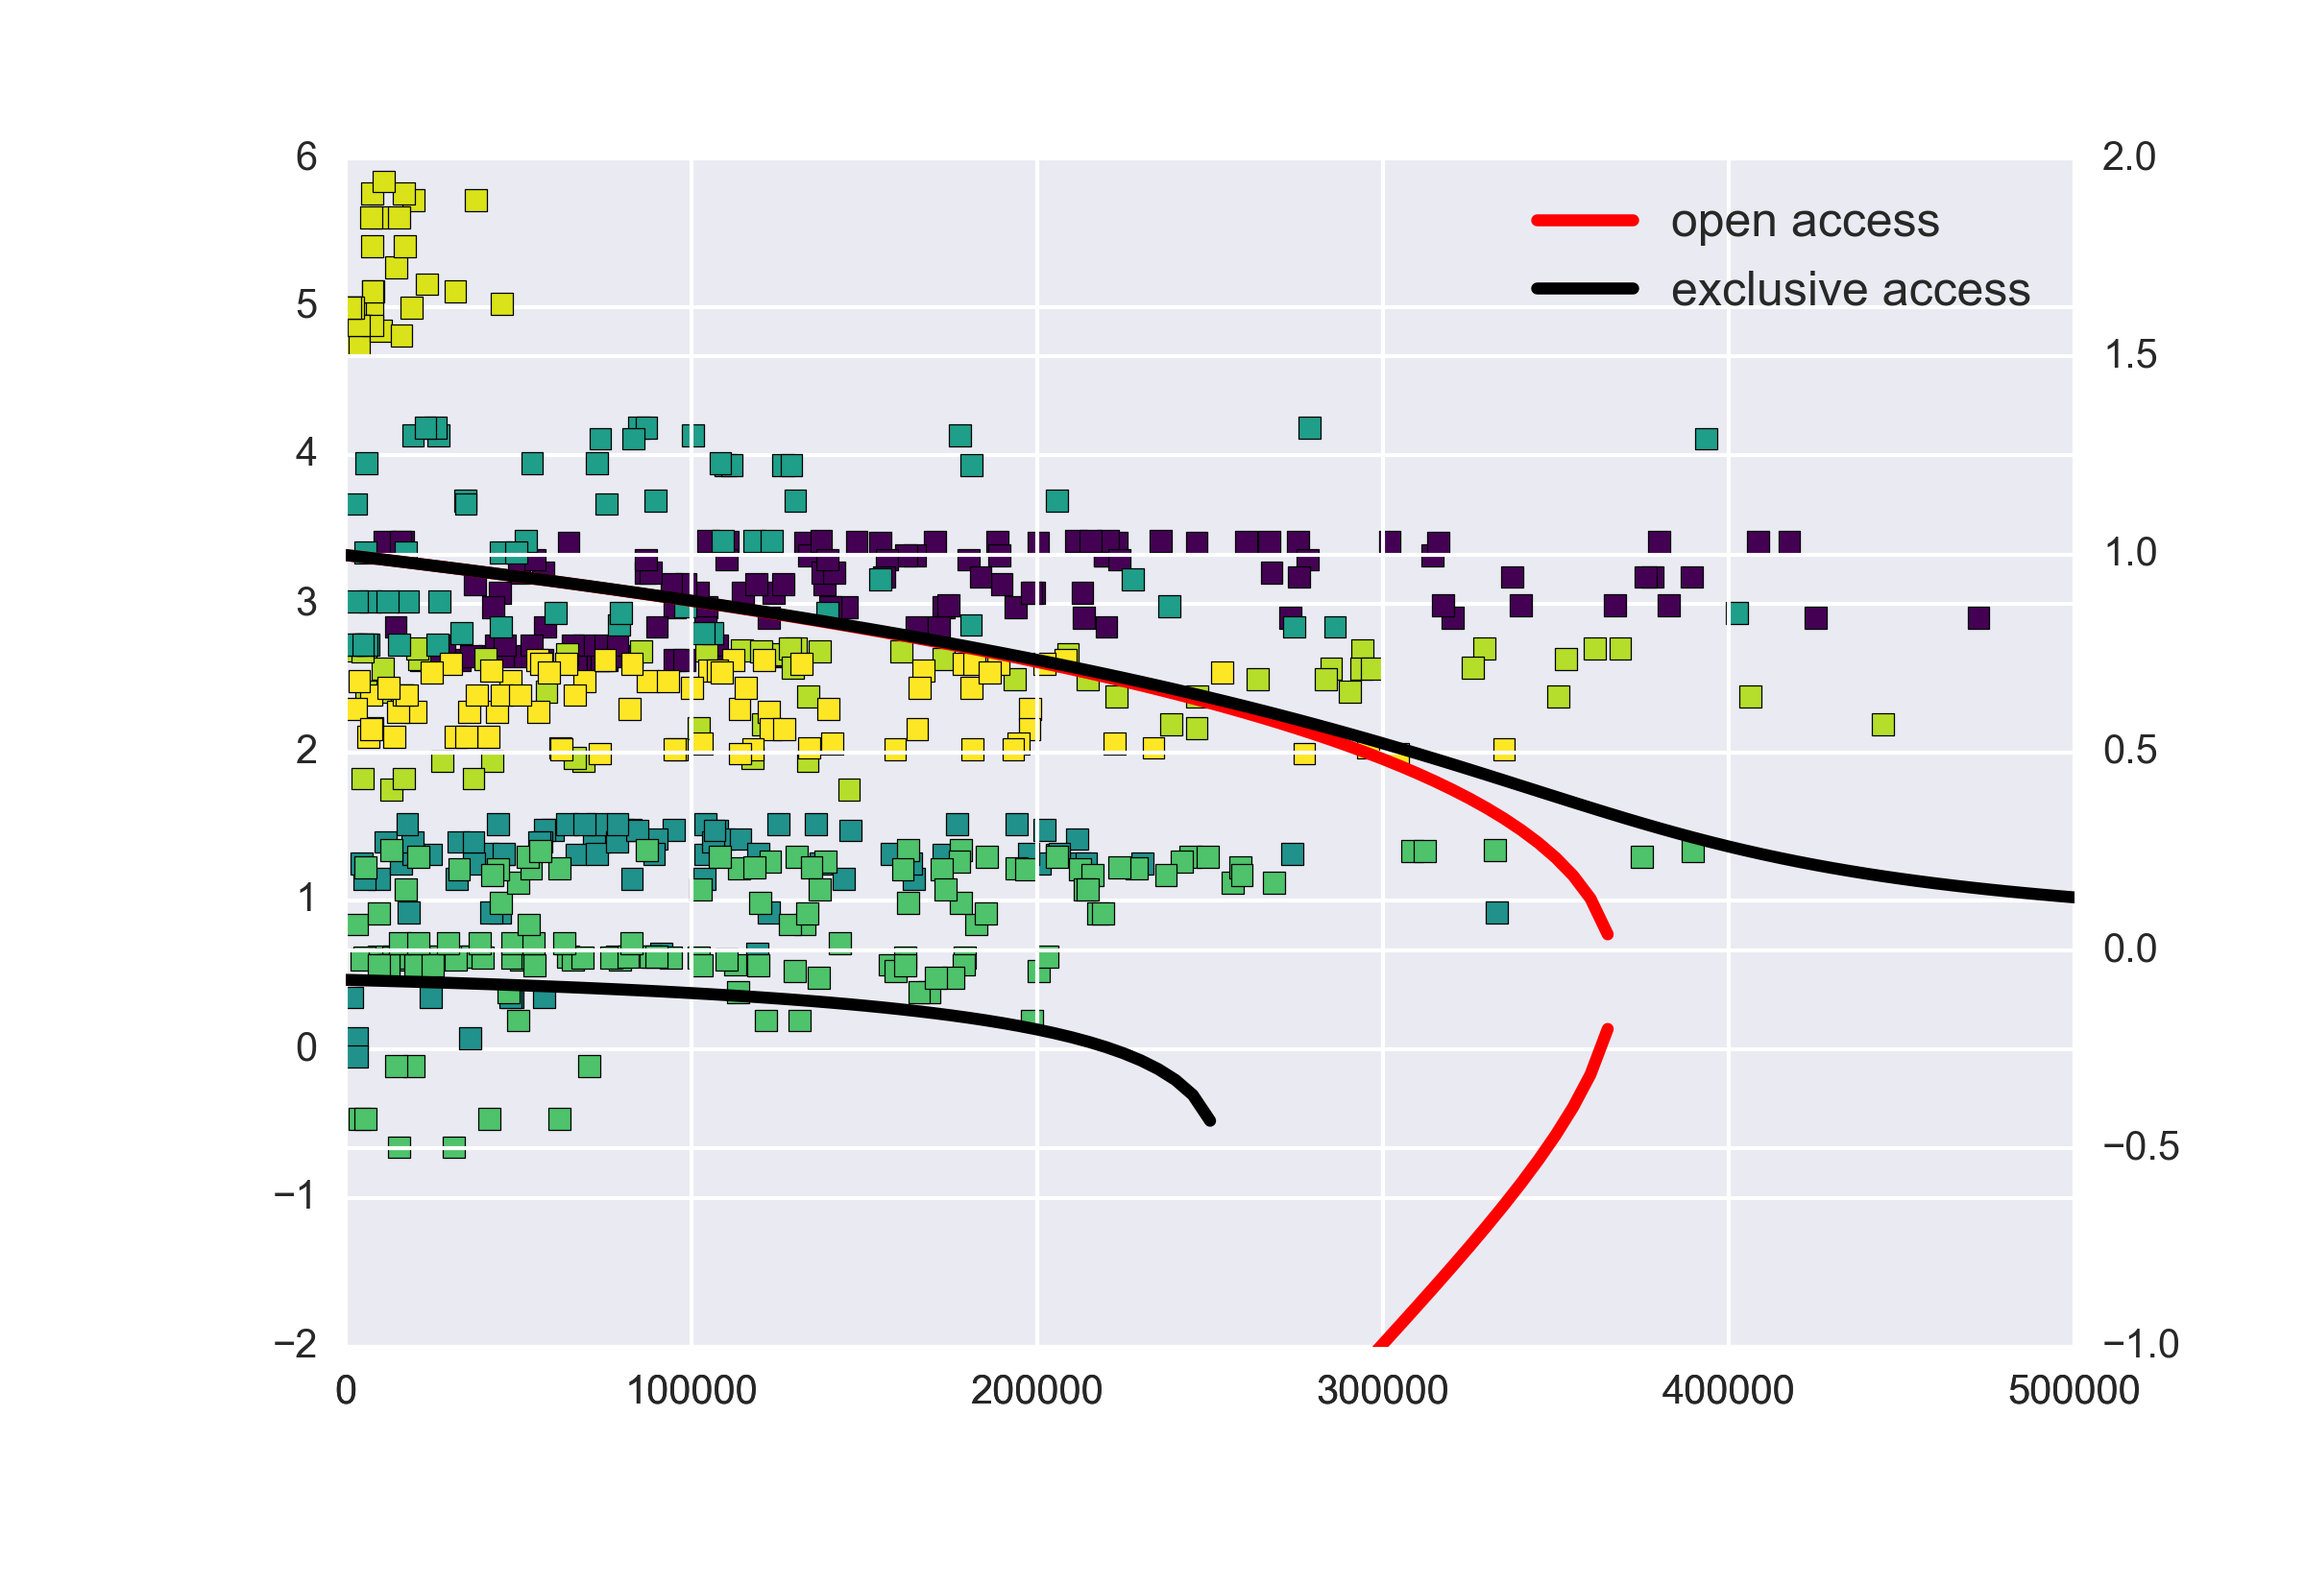
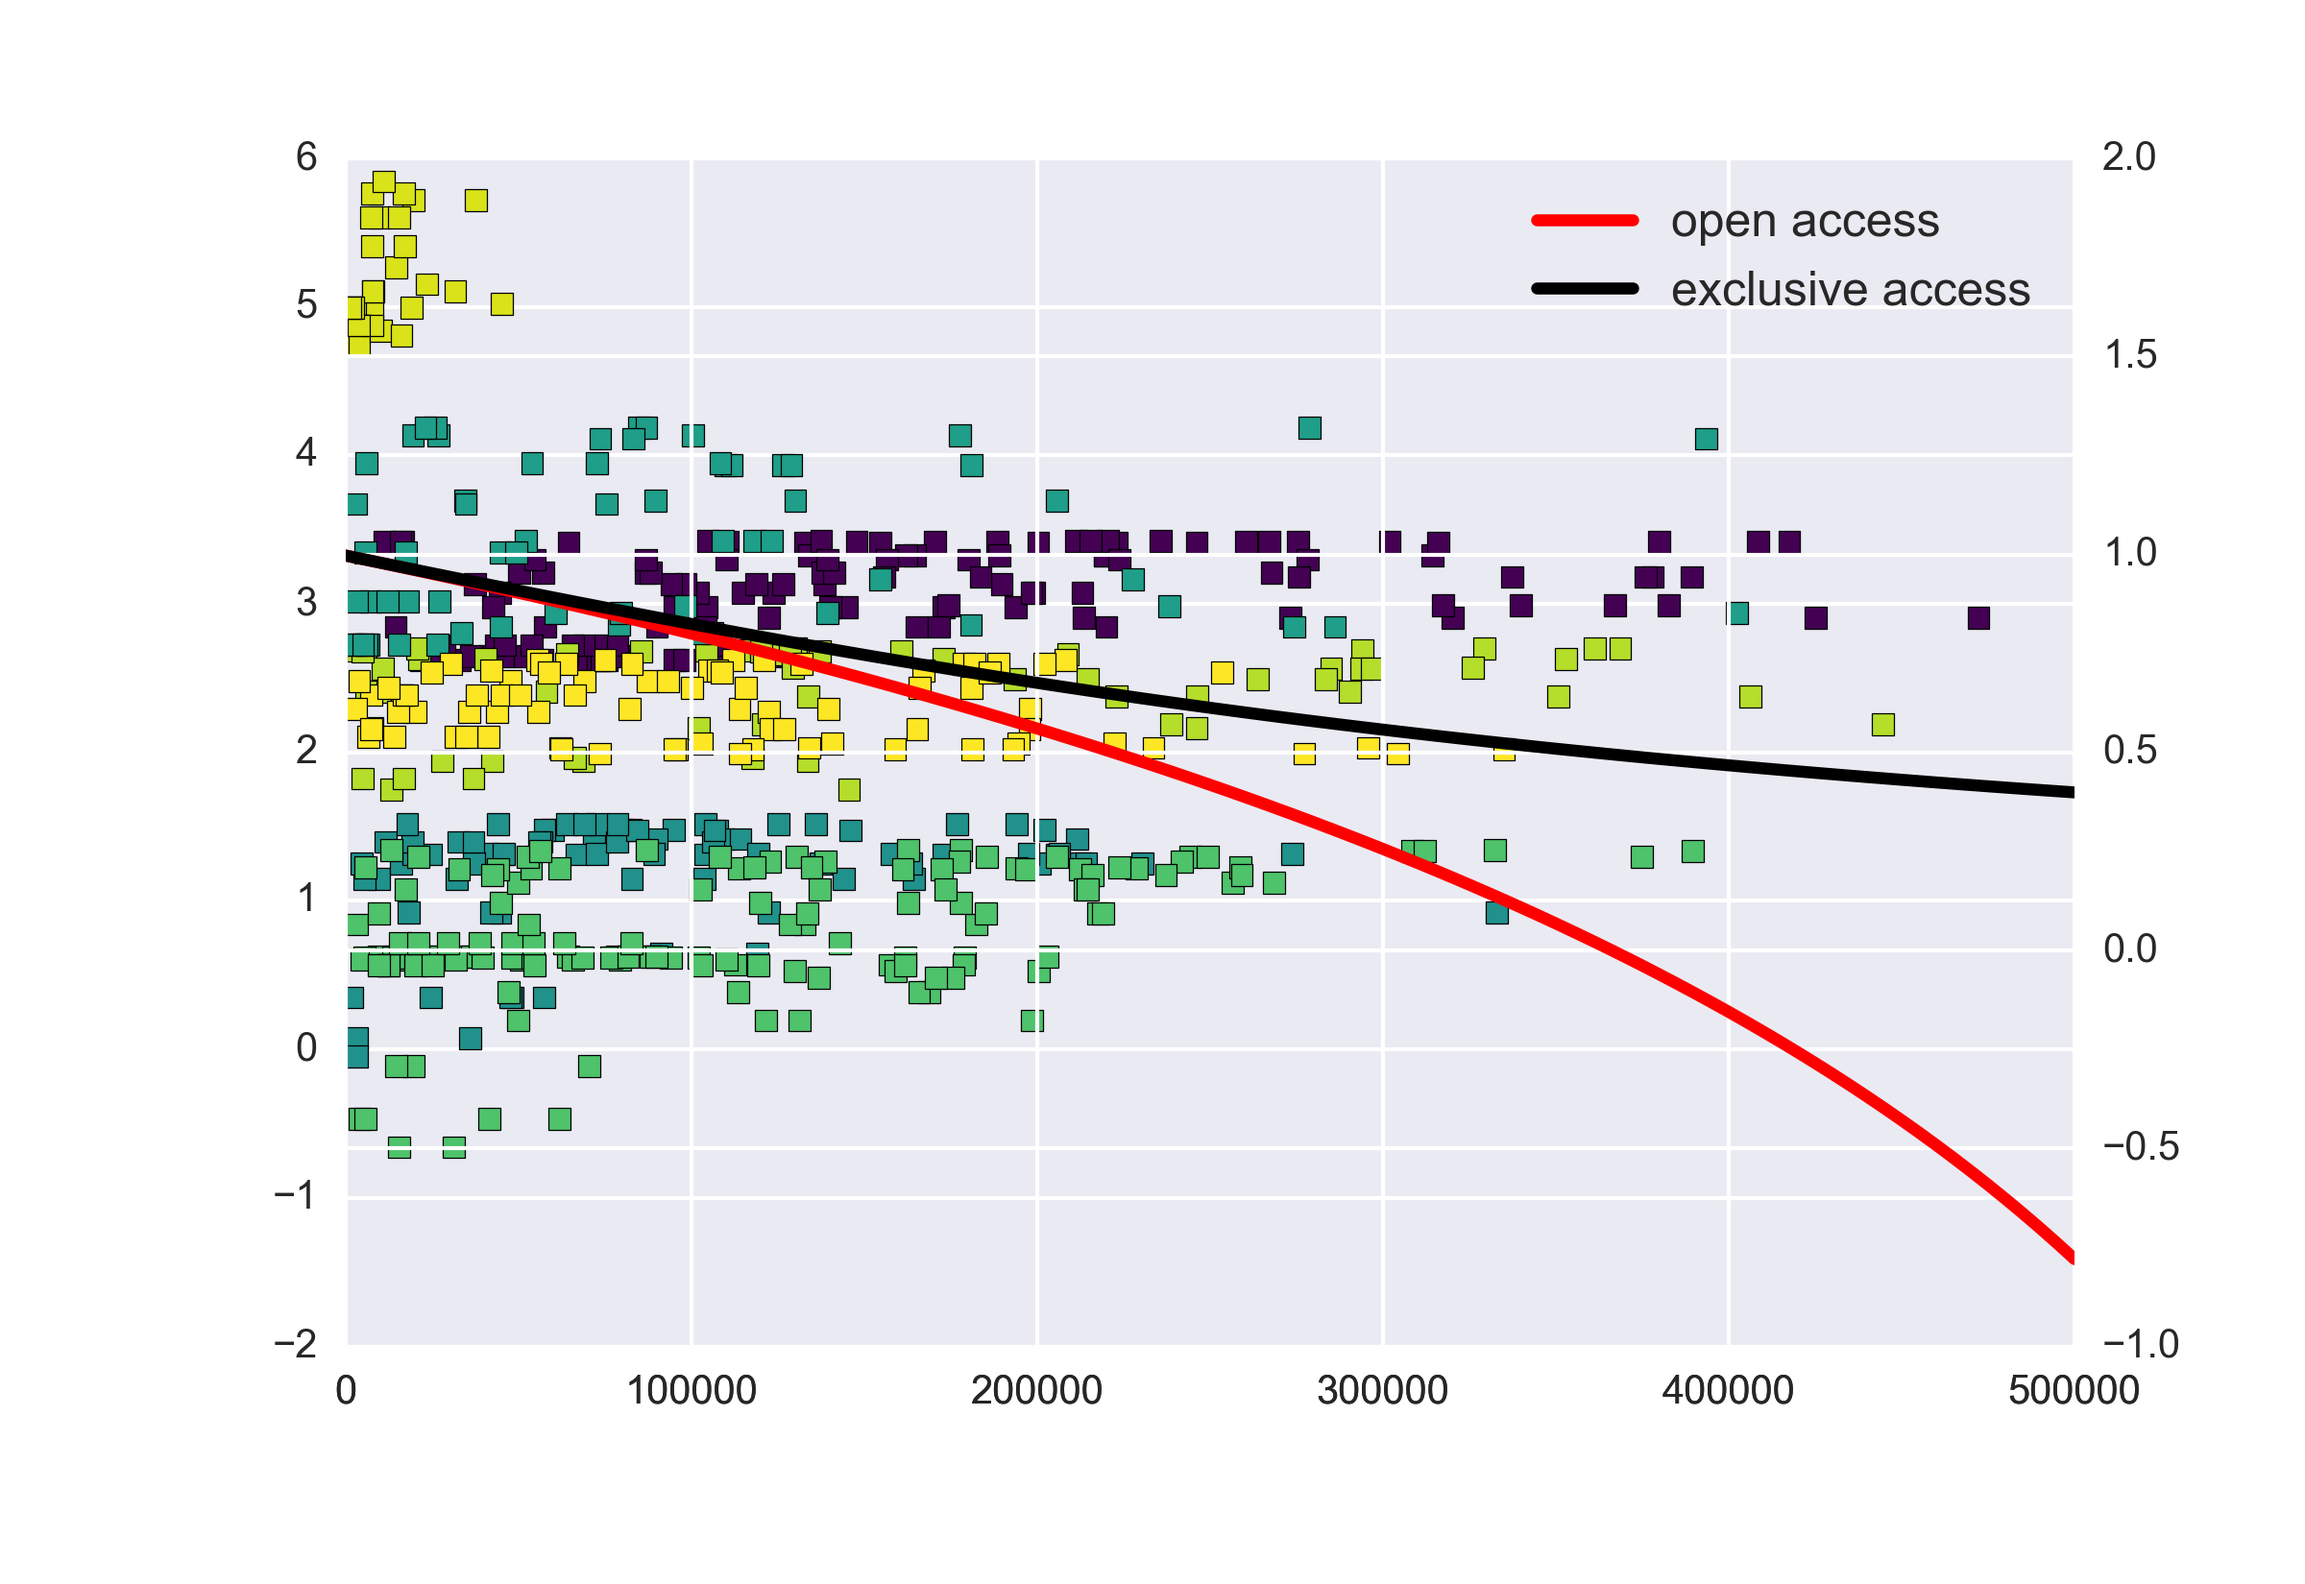
update on figures rq3
Former-commit-id: 96e5e547cd9221e72a9e4efcf4909f146054b247

diff --git a/RQ3/code/figures_theo.py b/RQ3/code/figures_theo.py
@@ -33,10 +33,10 @@ df3 = pd.read_csv('/Users/lauraelsler/Documents/MATLAB/solutions_exclusive_rq3.c
 # transpose and transform to numpy arrays
 df2= df2.transpose()
 df2=df2.values
-df2=np.nan_to_num(df2)
+# df2=np.nan_to_num(df2)
 df3= df3.transpose()
 df3=df3.values
-df3=np.nan_to_num(df3)
+# df3=np.nan_to_num(df3)
 
 # set working directory
 os.chdir("/Users/lauraelsler/Documents/SESYNC/GIT/fishmar/RQ3/")
@@ -48,8 +48,8 @@ plt.ylabel("catch $t$",fontsize=20, **hfont)
 ###! Scatter plot only data
 fig = plt.figure()
 ax1 = fig.add_subplot(111)
-plt.scatter(m_abalone, np.log2(stock_abalone/bmsy_abalone),c=(funct), s=30, marker="s", cmap='viridis')
-plt.title("abalone", fontsize= 25, **hfont)
+plt.scatter(m_lobsters, np.log2(stock_lobsters/bmsy_lobsters),c=(funct), s=30, marker="s", cmap='viridis')
+plt.title("lobsters", fontsize= 25, **hfont)
 plt.xlabel("reference price",fontsize=20, **hfont)
 plt.ylabel("log2(b/bmsy)",fontsize=20, **hfont)
 plt.ylim(0,6)
@@ -61,40 +61,45 @@ cb.ax.tick_params(labelsize=12)
 plt.show()
 
 ###! Scatter plot data and model
-x = np.linspace(0, 400000, 101) # x axis
+x = np.linspace(0, 5E5, 101) # x axis
 
 fig = plt.figure()
 fig.subplots_adjust(bottom=0.15, left= 0.15)
 # add the first axes using subplot populated with predictions
 ax1 = fig.add_subplot(111)
-plt.scatter(m_abalone, np.log2(stock_abalone),c=(funct), s=30, marker="s", cmap='viridis')
+plt.scatter(m_lobsters, np.log2(stock_lobsters/bmsy_lobsters),c=(funct), s=30, marker="s", cmap='viridis')
 # add the second axes using subplot with
 ax2 = fig.add_subplot(111, sharex=ax1, frameon=False)
-line1, = ax2.plot(df2[:,0], color="silver")
-line2, = ax2.plot(df2[:,1], color="black")
-line3, = ax2.plot(df3[:,0], color="green")
-line4, = ax2.plot(df3[:,1], color="orange")
+line1, = ax2.plot(x,df2[:,0], color="red", linewidth=3)
+line2, = ax2.plot(x,df2[:,1], color="red",linewidth=3)
+line3, = ax2.plot(x,df3[:,0], color="black",linewidth=3)
+line4, = ax2.plot(x,df3[:,1], color="black",linewidth=3)
 # x-axis
-ax1.set_xticklabels(np.arange(2001,2016,2), rotation=45, fontsize= 14)
-ax1.set_xlim(10,tmax-2)
-ax1.set_xlabel("Year",fontsize=20, **hfont)
-ax2.set_xticklabels(np.arange(2001,2016,2), rotation=45, fontsize= 14)
-ax2.set_xlim(10,tmax-2)
-ax2.set_xlabel("Year",fontsize=20, **hfont)
+# ax1.set_xticklabels(np.arange(2001,2016,2), rotation=45, fontsize= 14)
+ax1.set_xlim(0,5E5)
+# ax1.set_xlabel("Year",fontsize=20, **hfont)
+# ax2.set_xticklabels(np.arange(2001,2016,2), rotation=45, fontsize= 14)
+# ax2.set_xlim(10,tmax-2)
+ax2.set_xlabel("reference price",fontsize=20, **hfont)
+# ax2.yaxis.tick_right()
+# ax2.yaxis.set_label_position("right")
+# # y-axis
+ax1.set_ylabel("B/Bmsy", rotation=90, labelpad=5, fontsize=20, **hfont)
+ax1.set_ylim(-1,6)
+# ax1.tick_params(axis='y', labelsize=14)
+# ax2.set_ylabel("Mantle length $cm$", rotation=270, color='silver', labelpad=22, fontsize=20, **hfont)
 ax2.yaxis.tick_right()
 ax2.yaxis.set_label_position("right")
-# y-axis
-ax1.set_ylabel("Catch $tons$", rotation=90, labelpad=5, fontsize=20, **hfont)
-ax1.set_ylim(0,3E5)
-ax1.tick_params(axis='y', labelsize=14)
-ax2.set_ylabel("Mantle length $cm$", rotation=270, color='silver', labelpad=22, fontsize=20, **hfont)
-ax2.yaxis.tick_right()
-ax2.yaxis.set_label_position("right")
-ax2.tick_params(axis='y', colors='silver', labelsize=14)
-ax2.set_ylim(0,140)
+# ax2.tick_params(axis='y', colors='silver', labelsize=14)
+ax2.set_ylim(-1,2)
 plt.gcf().subplots_adjust(bottom=0.15,right=0.9)
 # legend
-plt.legend([line1, line2, line3, line4], ["MLM", "EDM", "BEM", "Data"], loc=1, fontsize= 12)
+plt.title('lobsters', fontsize=20, **hfont)
+plt.legend([line1, line3], ["open access", "exclusive access"], loc=1, fontsize= 12)
+#colorbar
+# cb = plt.colorbar()
+# cb.set_label('functionality', rotation=270, labelpad=40, fontsize = 22, **hfont)
+# cb.ax.tick_params(labelsize=12)
 # save and show
-# fig.savefig('./Dropbox/PhD/Resources/Squid/Squid/CODE/Squid/FIGS/ts_catch.pdf',dpi=300)
+# fig.savefig('./figures/lobsters_sm_dp.png',dpi=300)
 plt.show()

diff --git a/RQ3/code/basic_model_rq3.m b/RQ3/code/basic_model_rq3.m
@@ -17,8 +17,8 @@ v=0.2;
 Es=1;
 L2=0; %effort-based cost
 
-Lrange=[0 2]; %volume-based cost
-L2range=[0 .2]; %effort-based cost
+Lrange=[0 .2]; %volume-based cost
+L2range=[0 2]; %effort-based cost
 Vrange=[0.01:(3-.01)/100:3]; %reference price
 writematrix(Vrange,'solutions_x_rq3.csv'); %LGE new
 
@@ -112,7 +112,7 @@ for L_val=1:length(Lrange)
             Fsols=sort(Fsols,'descend');
         end
         Ssols=log2(2-Fsols/(r/2));
-        writematrix(Ssols,'solutions_onerun_rq3.csv'); %LGE new
+        writematrix(Ssols,'solutions_exclusive_rq3.csv'); %LGE new
         plot0=plot(Vrange,Ssols','k','LineWidth',4);
         plot0(2).LineStyle='--';
         %    plot0=scatter(Lrange,Fsols(1,:)','.k','LineWidth',2);
@@ -134,7 +134,7 @@ for L_val=1:length(Lrange)
             Fsols=sort(Fsols,'descend');
         end
         Ssols=log2(2-Fsols/(r/2));
-        writematrix(Ssols,'solutions_fast_rq3.csv'); %LGE new
+        writematrix(Ssols,'solutions_open_rq3.csv'); %LGE new
         plot0=plot(Vrange,Ssols','r','LineWidth',2);
         plot0(2).LineStyle='--';
         
